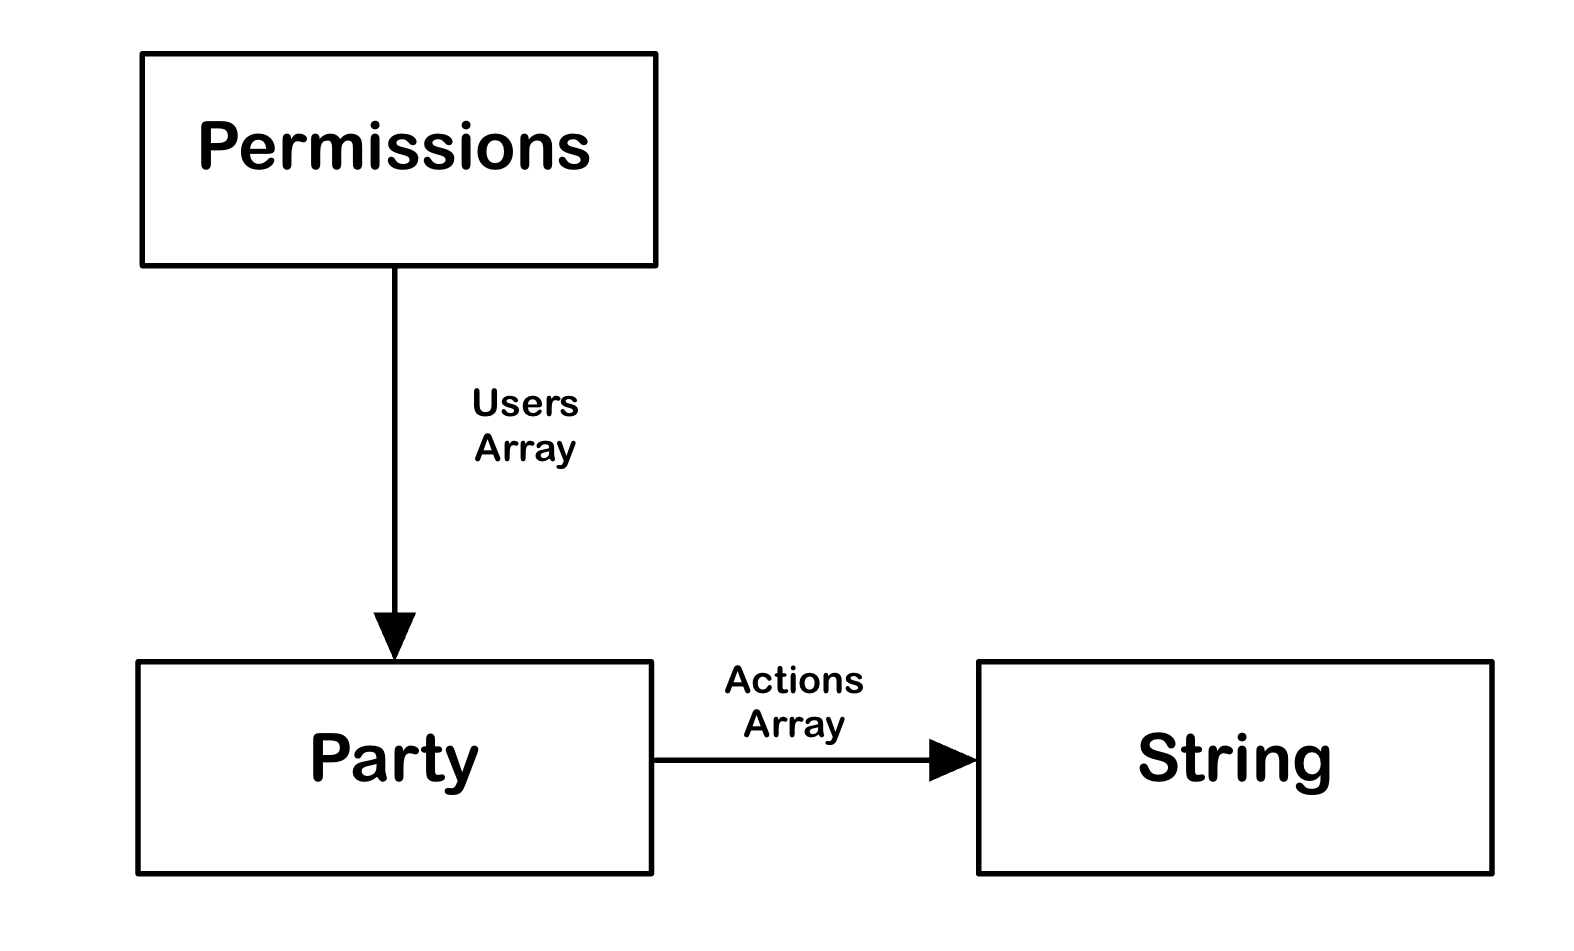
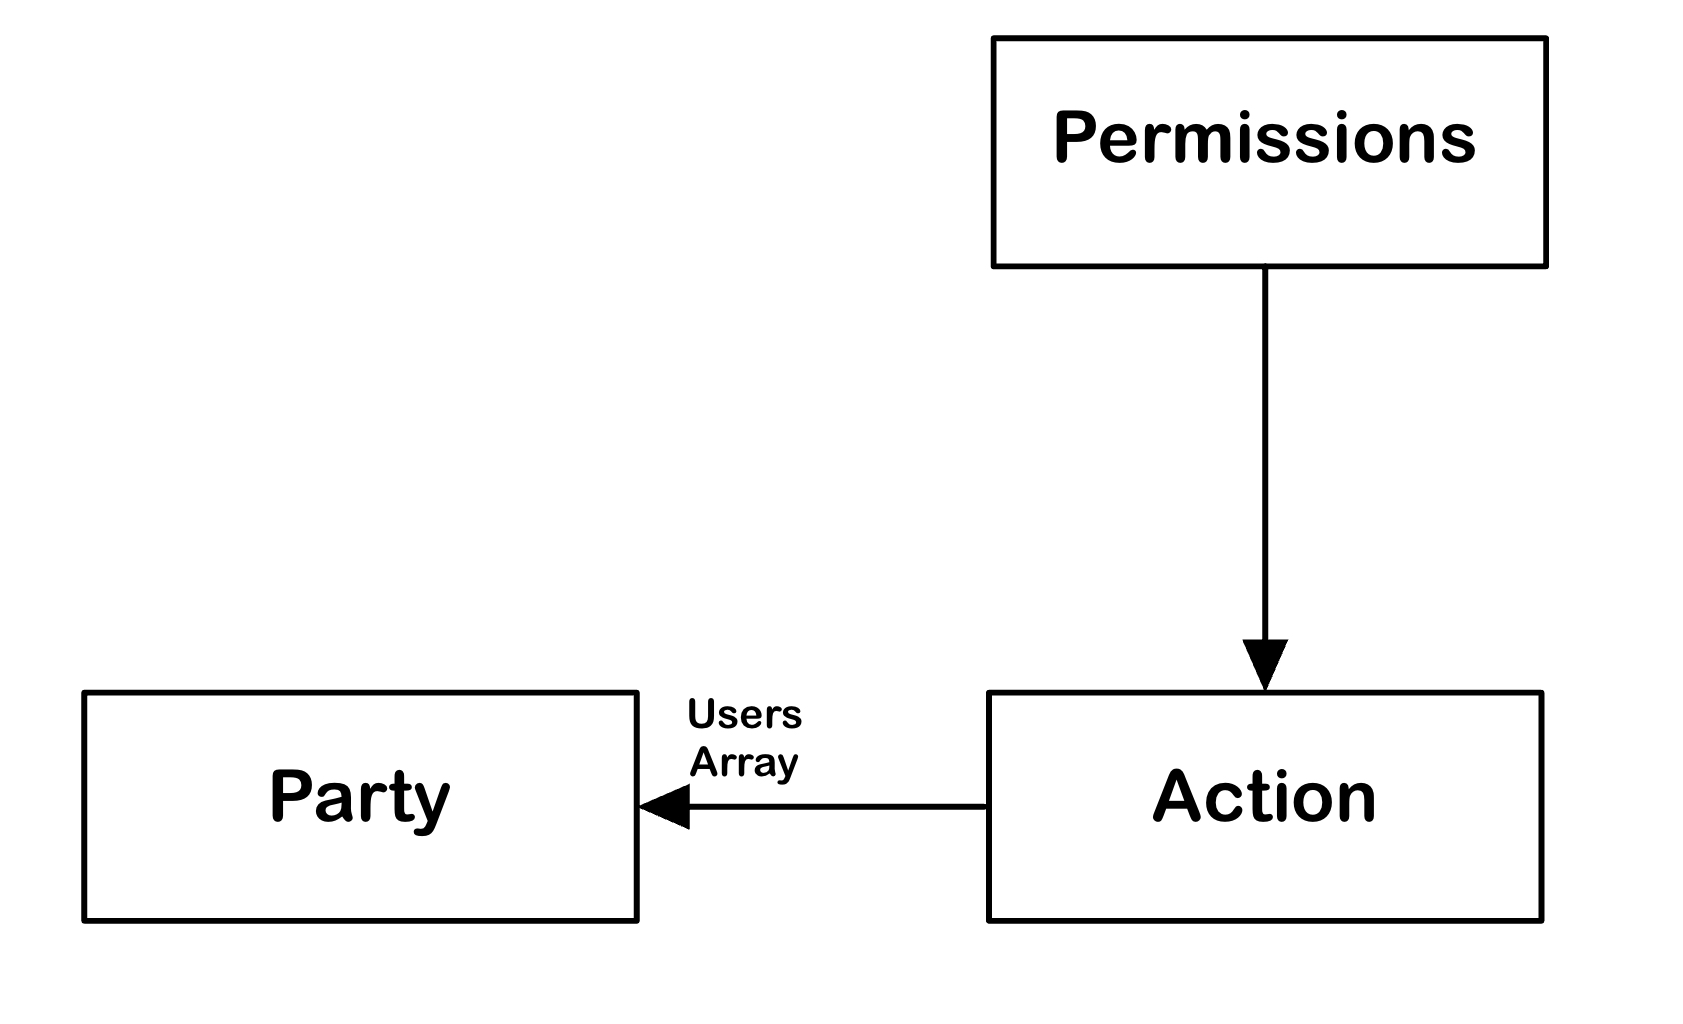
Assignment 4 almost final

diff --git a/docs/assignments/assignment4.md b/docs/assignments/assignment4.md
@@ -10,62 +10,64 @@ layout: doc
 
 ## Data Modeling
 
-# Entry \[User, Text, Image]
+# Entry \[User, Text]
 
-|                       |                                                                                                                                            |
-| :-------------------: | :----------------------------------------------------------------------------------------------------------------------------------------: |
-|        Purpose        |                        To allow users to record and/or communicate their thoughts and feelings via text and visuals                        |
-| Operational Principle |                             A user writes a piece of text to accompany some visuals and it can be viewed later                             |
-|         State         |                                              id -> author: string, content: string, img: img                                               |
-|        Actions        | create(author: User text: String, visual: Image), show(entry: Entry), delete(entry: Entry), edit(entry: Entry, content:string, img: Image) |
+|                       |                                                                                                                                                                                                                                             |
+| :-------------------: | :-----------------------------------------------------------------------------------------------------------------------------------------------------------------------------------------------------------------------------------------: |
+|        Purpose        |                                                                              To allow users to record and/or communicate their thoughts and feelings via text                                                                               |
+| Operational Principle |                                                                             A user writes a piece of text to accompany some visuals and it can be viewed later                                                                              |
+|         State         |                                                                                                    Entry -> author: Text, content: Text                                                                                                     |
+|        Actions        | _create(author: User text: String)_ Create a new entry<br> _show(entry: Entry)_ Given an entry, return its content<br> _delete(entry: Entry)_ delete a certain post<br> _edit(entry: Entry, content:string, img: Image)_ Edit a given entry |
 
 ![Entry](../../assets/images/EntryModel.jpg)
 
-# Journaling \[Content, User]
+# Journaling \[Item, User]
 
-|                       |                                                                                   |
-| :-------------------: | :-------------------------------------------------------------------------------: |
-|        Purpose        | Store and access multiple entries in one location based on a common theme/purpose |
-| Operational Principle |             You put your entries in a journal to keep them organized              |
-|         State         |                          name, owner -> Array \<Content>                          |
-|        Actions        | create(name: String, owner: USer), add(object: Content); remove(object: Content)  |
+|                       |                                                                                                                                                                                                                                                                                                                                                                                        |
+| :-------------------: | :------------------------------------------------------------------------------------------------------------------------------------------------------------------------------------------------------------------------------------------------------------------------------------------------------------------------------------------------------------------------------------: |
+|        Purpose        |                                                                                                                                                    Store and access multiple items in one location based on a common theme/purpose                                                                                                                                                     |
+| Operational Principle |                                                                                                                                                                You put your entries in a journal to keep them organized                                                                                                                                                                |
+|         State         |                                                                                                                                                                         name, owner -> contents: Item[], Topic                                                                                                                                                                         |
+|        Actions        | _create(name: String, owner: User)_ Creates a new Journal owned by a certain user<br> _add(journal: Journal, item: Item)_ Add an item to a specific journal <br> _remove(journal: Journal, item: Item)_ Remove an item from a specific journal<br> _getItems(journal:Journal)_ gets all the items contained in a given journal <br> _delete(journal:Journal)_ Delete a certain journal |
 
 ![Journal](../../assets/images/JournalModel.jpg)
 
-# Threading \[Object]
+# Threading \[Item, Environment]
 
-|                       |                                                                                                     |
-| :-------------------: | :-------------------------------------------------------------------------------------------------: |
-|        Purpose        |              Create a linear ordered relationship between multiple of the same object               |
-| Operational Principle |      Given an object, if you want a new object to follow it, thread the new one to the old one      |
-|         State         |               object: Object -> 1 parent: Object, object: Object -> 0-1 child: Object               |
-|        Actions        | makeThread(head: Object), addToEnd(object: Object), getNext(object: Object) getPrev(object: Object) |
+|                       |                                                                                                                                                                                                                                                                                                                                                                                |
+| :-------------------: | :----------------------------------------------------------------------------------------------------------------------------------------------------------------------------------------------------------------------------------------------------------------------------------------------------------------------------------------------------------------------------: |
+|        Purpose        |                                                                                                                                                     Create a linear ordered relationship between multiple of the same item                                                                                                                                                     |
+| Operational Principle |                                                                     If you create an item that fits linearly after another one, you can add it to a thread and other can continue to add items to the tail of your item. That way people can see the items that came before and after yours in the thread                                                                      |
+|         State         |                                                                                                                                                        \_id -> head: Item, tail: Item, body: Item\[], env: Environment                                                                                                                                                         |
+|        Actions        | _addToThread(parent: Item, item: Item)_ Thread an item to the tail of another. Creates a new thread if the parent is unthreaded<br> _unthread(item:Item)_ remove an item from a thread it may be in <br> _getNext(item: Item)_ Given an item, get the next item in the thread it is in<br> _getPrev(item: Item)_ Given an item, get the item that came before it in the thread |
 
 ![Thread](../../assets/images/ThreadModel.jpg)
 
 # Friending \[Party]
 
-|                       |                                                                                                                      |
-| :-------------------: | :------------------------------------------------------------------------------------------------------------------: |
-|        Purpose        |                                       Distinguish a party as special to a user                                       |
-| Operational Principle |                      You want a user on an app to be closer to you so you add them as a friend                       |
-|         State         |                                               Party -> Array \<Party>                                                |
-|        Actions        | befriend(user: Party, friend: Party), unfriend(user: Party, friend: Party), checkFriends(user: Party, friend: Party) |
+|                       |                                                                                                                                                                                                                                                                                                                                                          |
+| :-------------------: | :------------------------------------------------------------------------------------------------------------------------------------------------------------------------------------------------------------------------------------------------------------------------------------------------------------------------------------------------------: |
+|        Purpose        |                                                                                                                                                Distinguish a party as on a special list for another party                                                                                                                                                |
+| Operational Principle |                                                                                                                                You want a user on an app to be distinguised as closer to you so you add them as a friend                                                                                                                                 |
+|         State         |                                                                                                                                                              \_id -> from: Party, to: Party                                                                                                                                                              |
+|        Actions        | _befriend(user: Party, friend: Party)_ Add a friend to the list of friends for a user<br> _unfriend(user: Party, friend: Party)_ Remove a party from a user's list of friends <br> _checkFriends(user: Party, user: Party)_ Check if two users have both friended each other <br>_getFriends(user:Party)_ Get a list of all the friends a user has added |
 
 ![Friend](../../assets/images/FriendModel.jpg)
 
-# Permissioning \[Party, Action]
+# Permissioning \[User, Action]
 
-|                       |                                                                                                                            |
-| :-------------------: | :------------------------------------------------------------------------------------------------------------------------: |
-|        Purpose        |                             To discern certain parties as being allowed to do certain actions                              |
-| Operational Principle |                   You want to allow friend Z to come to your house so you give them permission to do so                    |
-|         State         |                                                  Party -> Array \<Action>                                                  |
-|        Actions        | grantPerm(party: Party, action: Action), checkPerm(party: Party, action: Action), removePerm(party: Party, action: Action) |
-
-    ** OpenJournal = Entry(User<user>, string, img) + Journaling(User<user>, Content<Entry>) + Threading(Object<Entry>) + Friending(Party<User>) + Permissioning(Party<User>, Action[])**
+|                       |                                                                                                                                                                                                                                                                                                                                                                                                                                                                                                                               |
+| :-------------------: | :---------------------------------------------------------------------------------------------------------------------------------------------------------------------------------------------------------------------------------------------------------------------------------------------------------------------------------------------------------------------------------------------------------------------------------------------------------------------------------------------------------------------------: |
+|        Purpose        |                                                                                                                                                                                                                               To discern certain parties as being allowed to do certain actions                                                                                                                                                                                                                               |
+| Operational Principle |                                                                                                                                                                                                                     You want to allow friend Z to come to your house so you give them permission to do so                                                                                                                                                                                                                     |
+|         State         |                                                                                                                                                                                                                                                       Action -> User\[]                                                                                                                                                                                                                                                       |
+|        Actions        | _createPerm(action: Action)_ Creates a new action to allow perms for<br> _getAuthorizedActions(user: User)_ Gets the list of actions a user has permission to do <br> _giveUserPerm(user: User, action: Action)_ Gives a user permission to do a certain action <br> _removeUserPerm(user: User, action: Action)_ Remove a user from an action's permission list<br> _hasPerm(user: User, action: Action)_ Check if a user has permissions for a given action<br> _delPerm(action: Action)_ Delete a permission list entirely |
 
 ![Permission](../../assets/images/PermissionModel.jpg)
+
+    **OpenJournal = Entry(user<Authing.User>, string) + Journaling(user<user>, Item<Entry>) + Threading(Item<Entry>, Environment<Journal>) + Friending(user<User>) + Permissioning(Party<Authing.user>, action<Journal>)**
+
+![App](../../assets/images/appModel.jpg)
 
 ## Data Representation
 
@@ -79,8 +81,47 @@ Permissioning is represented where each user has their own permissioning doc tha
 
 ## Restful Routes
 
+Threads
+
+createThread(session: SessionDoc, journal: ObjectId, entry: ObjectId, head: ObjectId)- post("/thread")
+removeFromThread(session: SessionDoc, journal: ObjectId, entry: ObjectId)- delete("/thread")
+getNextInThread(session: SessionDoc, journal: ObjectId, entry: ObjectId)- get("/thread/next")
+getPrevInThread(session: SessionDoc, journal: ObjectId, entry: ObjectId)- get("/thread/prev")
+getThread(session: SessionDoc, journal: ObjectId, entry: ObjectId)- get("/thread")
+
+journals
+
+createJournal(session: SessionDoc, journal: string)- post("/journals")
+deleteJournal(session: SessionDoc, journalid: string)- delete("/journals")
+getAllJournals(session: SessionDoc)- get("/journals")
+addJournalEntry(session: SessionDoc, journalid: string, entry: Object)- post("/journals/:journalid")
+removeJournalEntry(session: SessionDoc, journalid: string, \_id: string)- delete("/journals/:journalid/:\_id")
+getJournalContents(session: SessionDoc, journalid: string)- get("/journals/:journalid")
+addJournalUser(session: SessionDoc, journalid: string, username: string)- post("/journals/users/:username")
+removeJournalUser(session: SessionDoc, journalid: string, username: string)- delete("/journals/users/:username")
+getJournalUsers(session: SessionDoc, journalid: string)- get("/journals/users")
+
+friends
+
+getAddedFriends(session: SessionDoc)- get("/friends")
+removeFriend(session: SessionDoc, friend: string)- delete("/friends/:friend")
+addFriend(session: SessionDoc, to: string)- post("/friend/add/:to")
+
 ## Synchronizations
+
+User: Jack:  
+pw: Jack
+post : JackPost: 670890eb0f86e4616b1e2ea2
+Journal: Jack Journal: 6708912b4b78e59b56584112
 
 ## Deployment
 
 ## Design Reflections
+
+Permissioning: After the initial milestone, I decided to change the design of my permissioning concept. Whereas originally the state contained a mapping of users to the journals, I changed my mind and decided to map from individual journals to the users that can view/use them. This should make syncing journaling with the permission concept easier for creation of new journals. Although it will be a bit harder for users to quickly query which journals they have access to, it should still be doable.
+
+Threading: I spent a while considering the implications of how I implement my threading concept and ultimately decided that each object can only occupy one location in one thread. I wanted threads to be linear for ease of viewing, so that means that only one post can be threaded to the tail of another. Since entries are all contained within individual journals, threads must also be contained within journals. This makes them rather suceptible to trolling attacks where one authorized user could continually add spam entries to the tail of one thread. That said, if the owner of the journal removes them from the journal, their posts would be removed and the thread would have all open ends connected to fill in for the missing spam posts. Update: Despite how badly I wanted to implement threading as linked lists in the database, I had a very strong feeling that needing to make a query to the server each time I want to move one link up would be incredibly inefficient so I'm choosing instead to implement threads as lists
+
+Friending: I also decided to refactor the provided friending code in order to implement it for the functionality I was planning.
+
+Posting vs. Entrying: I decided to refactor and extend upon the provided posting code to create my Entry concept since they were very similar with the only main difference being the lack of images from posting.

diff --git a/docs/assignments/assignment1.md b/docs/assignments/assignment1.md
@@ -9,7 +9,7 @@ layout: doc
 
 > Hunch: I would like to build a social media app for people who want a simpler experience to stay in touch with their friends. Users of Instagram, Snapchat, and others are getting caught up in all the other offerings and ads.
 
-I'd chose to interview 2 relatively busy and/or succesful people who are at very different points in their life but still find time for social media. I'd like to interview one person who is very involved on multiple social media platforms and one person who is less active on social media. I'd like the latter person to be someone who has used social media for a long time as well in hopes that I can get perspective on how they've reacted to it changing over time. Since I do not use social media and do not have my own college-aged perspective, I would like to interview one person who fits that demographic.
+I'd chose to interview 2 relatively busy and/or succesful people who are at very different points in their life but still find time for social media. I'd like to interview one person who is very involved on multiple social media platforms and one person who is less active on social media. I'd like the latter person to be someone who has used social media for a long time as well in hopes that I can get perspective on how they've reacted to it changing over time. Since I do not use social media and do not have my own college-aged perspective, I would like to interview one person who fits that demographic. This idea was in part inspired by [this article](https://www.theverge.com/2023/4/18/23672769/social-media-inevitable-death-monetization-growth-hacks)
 
 ## Interview Questions
 
